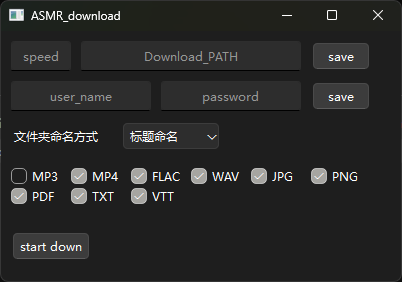
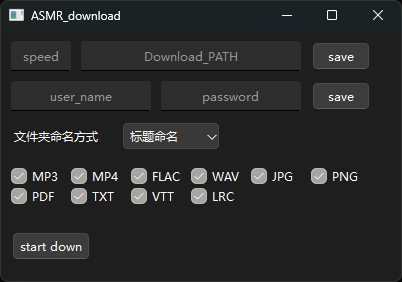
修复BUG

Changed region(s): [[0.4776, 0.6525, 0.597, 0.7376], [0.0299, 0.5957, 0.0896, 0.6525], [0.9851, 0.4255, 1.0, 0.4539]]

diff --git a/src/UI/index.py b/src/UI/index.py
@@ -135,6 +135,11 @@ class INDEX(QMainWindow):
         self.checkbox_VTT.setChecked(self.selected_formats["VTT"])
         self.checkbox_VTT.toggled.connect(self.update_checkbox_VTT)
 
+        self.checkbox_VTT = QCheckBox("LRC", self.centralwidget)
+        self.checkbox_VTT.setGeometry(QtCore.QRect(190, 150, 60, 30))
+        self.checkbox_VTT.setChecked(self.selected_formats["LRC"])
+        self.checkbox_VTT.toggled.connect(self.update_checkbox_LCR)
+
         # 创建按钮
         self.user_conf_save_button = QPushButton("save", self.centralwidget)
         self.user_conf_save_button.setGeometry(QtCore.QRect(310, 50, 60, 30))
@@ -195,6 +200,11 @@ class INDEX(QMainWindow):
             self.conf.write_downfile_type_MP3('VTT', 'false')
         else:
             self.conf.write_downfile_type_MP3('VTT', 'true')
+    def update_checkbox_LCR(self):
+        if self.selected_formats['LRC']:
+            self.conf.write_downfile_type_MP3('LRC', 'false')
+        else:
+            self.conf.write_downfile_type_MP3('LRC', 'true')
 
 
     def on_combo_changed(self, text):

diff --git a/README.md b/README.md
@@ -12,11 +12,15 @@
 
  speed : 下载限速 默认100MB/S  单位MB/S 在下载中修改限速选项需要下载玩当前文件后生效
 
-Download_PATH: 下载路径
+Download_PATH: 下载路径 默认为C盘下载路径
 
 user_name：ASMR.ONE 用户名
 
-passwoed：ASME.ONE 密码
+password：ASME.ONE 密码  (也可以手动在ini文件中输入TOKEN)
+
+勾选文件类型可选择是否下载此后缀名文件，默认全部勾选 取消勾选则不对此文件类型进行下载 
+
+注：VTT格式为视频文本轨道  LRC-基于纯文本的歌词专用格式
 
 start down：开始下载
 
